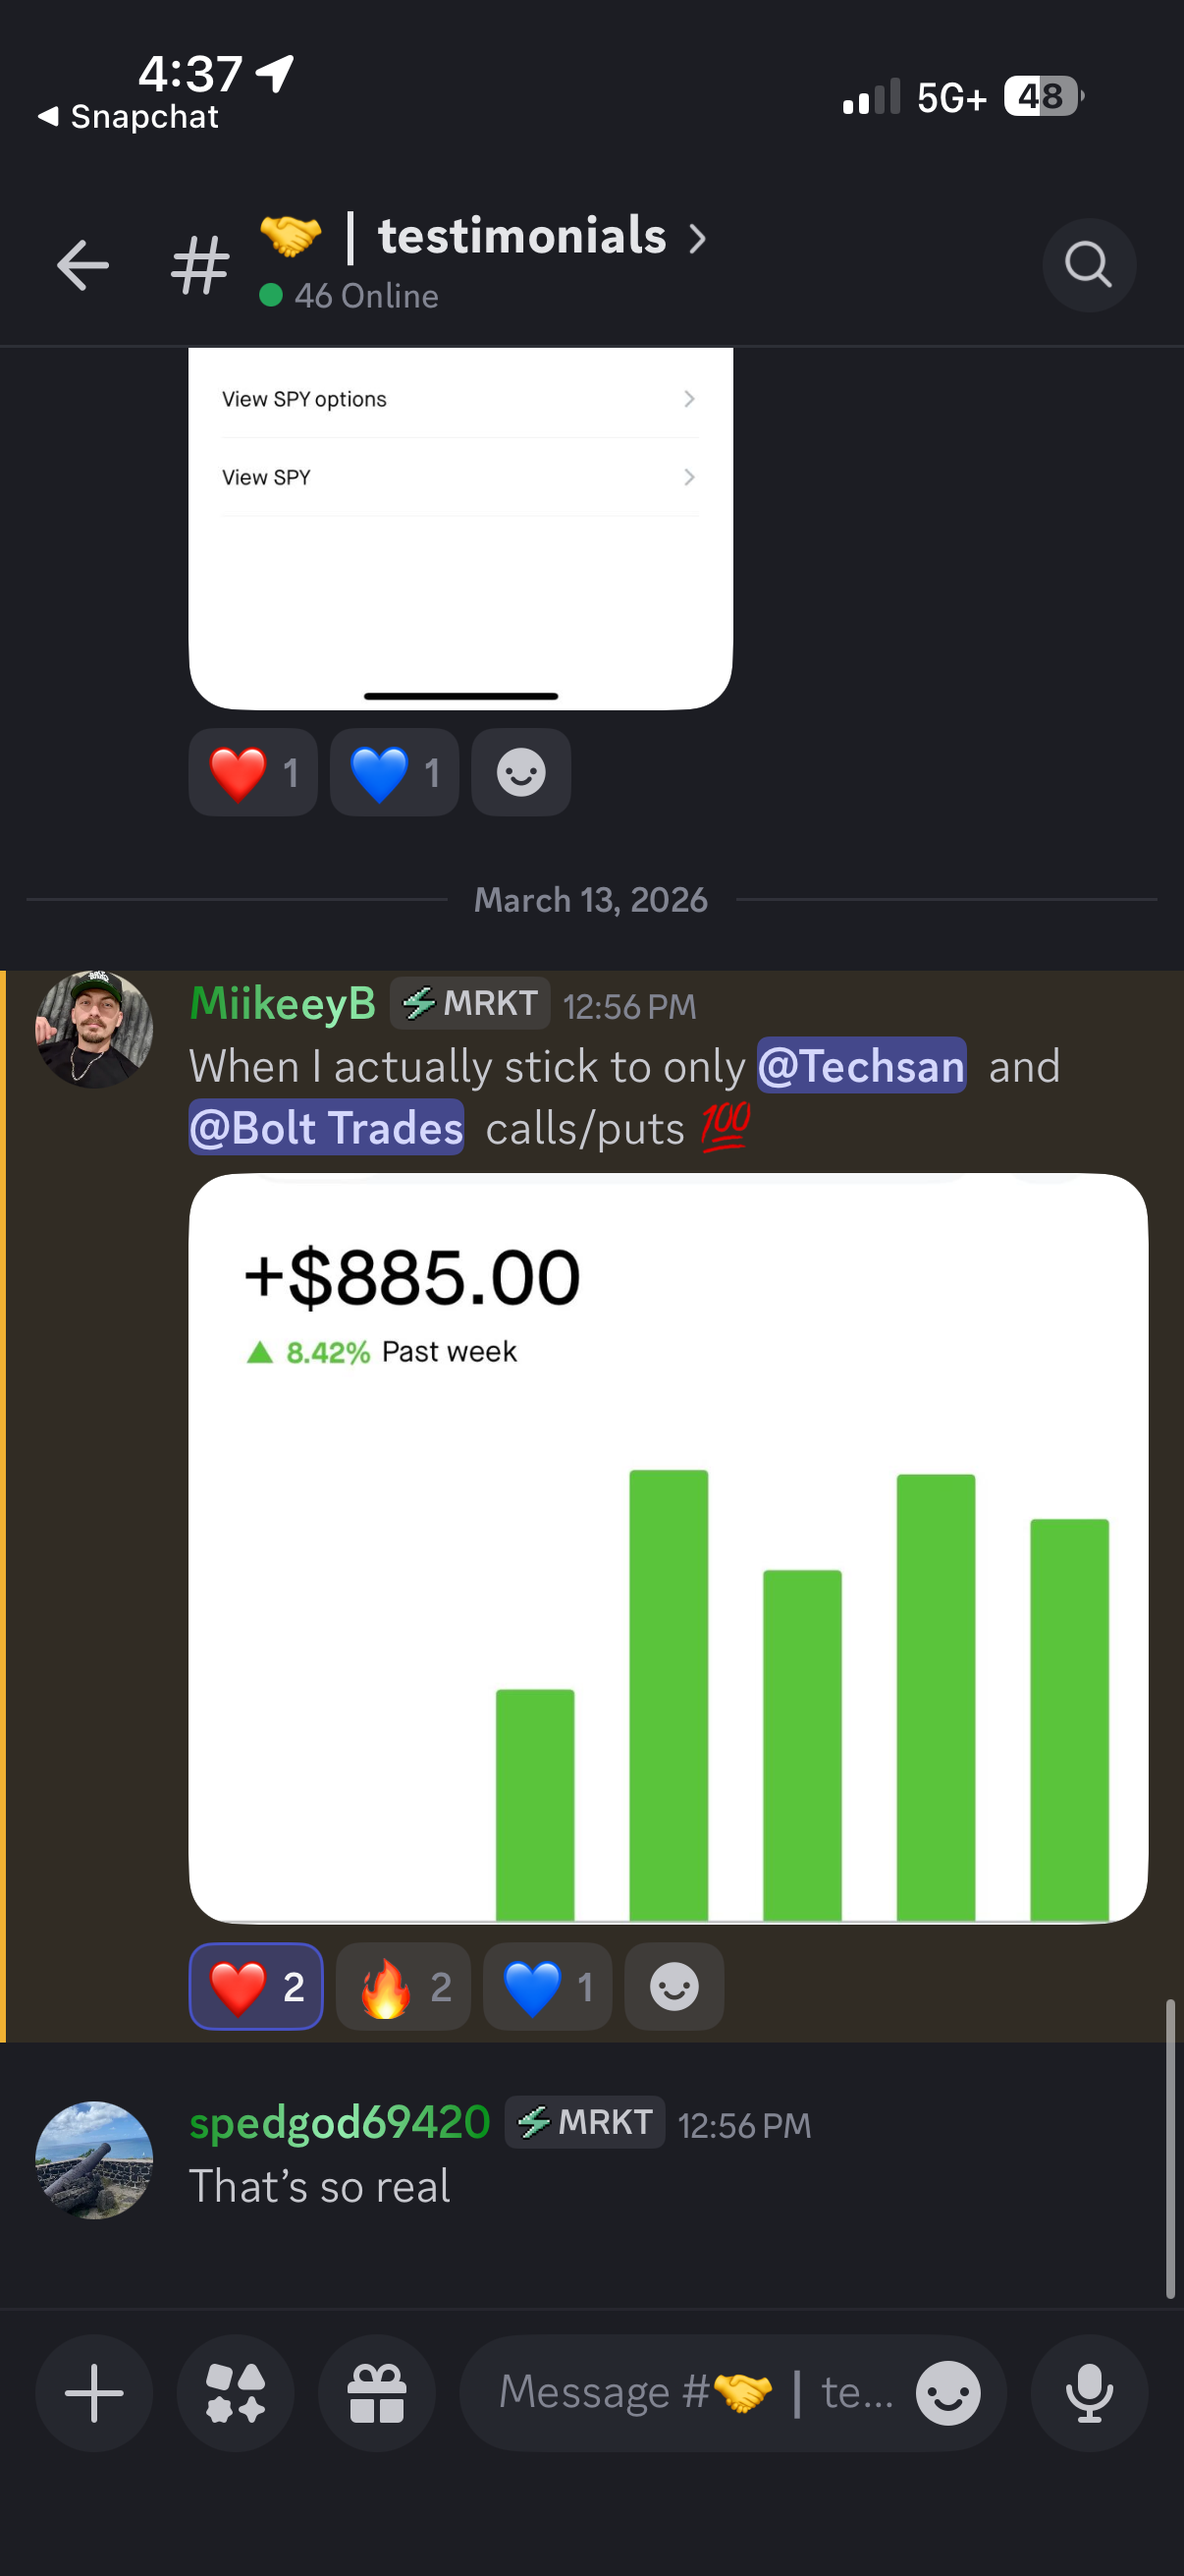
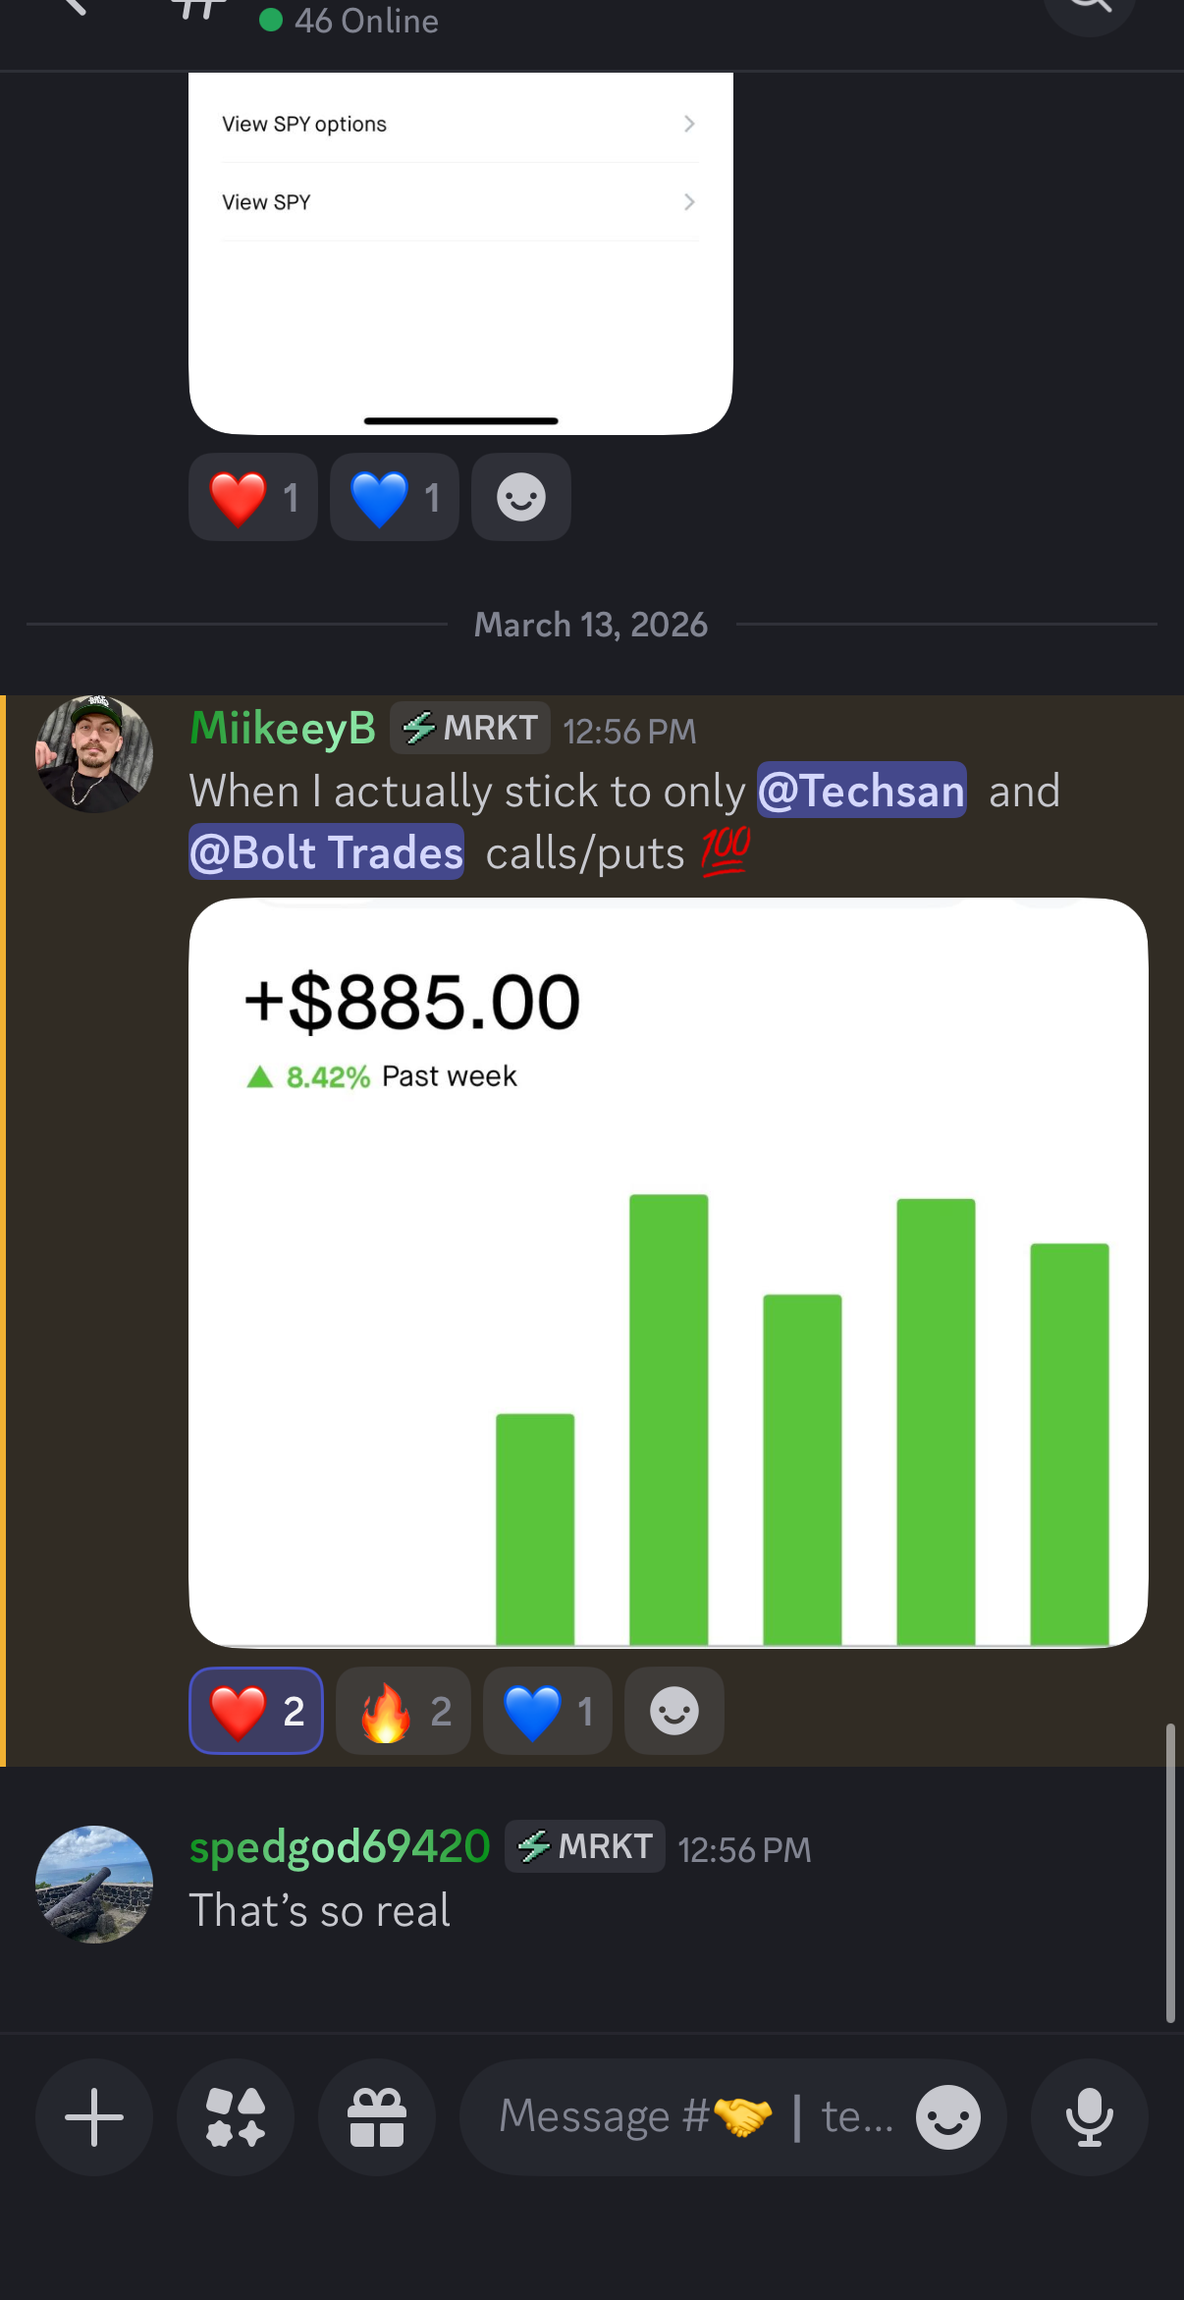
Fix mobile spacing, gains zoom, and testimonial status bar crops
- Add vertical padding (5rem mobile, 7rem desktop) to section-container
  class — sections were squished together with zero breathing room
- Change gains images from object-cover to object-contain so trade
  details (especially SOFI call) aren't cut off by zoom
- Crop 280px from top of all 5 testimonial screenshots to remove
  Snapchat status bar, battery indicator, and carrier info

diff --git a/src/styles/global.css b/src/styles/global.css
@@ -449,12 +449,16 @@
     margin-right: auto;
     padding-left: var(--spacing-container-x);
     padding-right: var(--spacing-container-x);
+    padding-top: var(--spacing-section-y);
+    padding-bottom: var(--spacing-section-y);
   }
 
   @media (min-width: 1024px) {
     .section-container {
       padding-left: var(--spacing-container-x-lg);
       padding-right: var(--spacing-container-x-lg);
+      padding-top: var(--spacing-section-y-lg);
+      padding-bottom: var(--spacing-section-y-lg);
     }
   }
 
